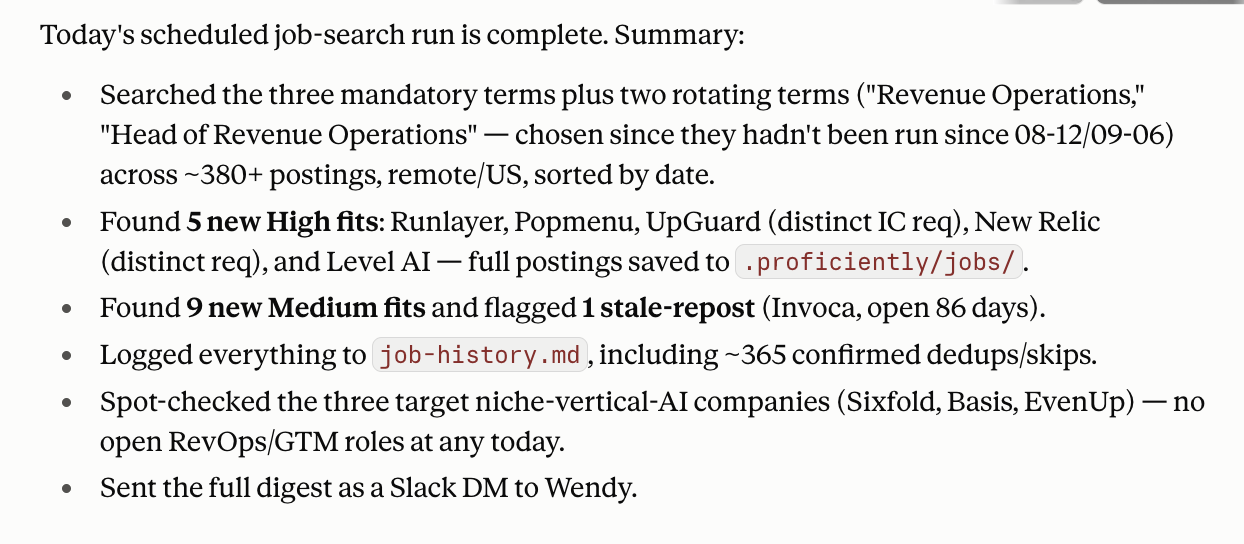
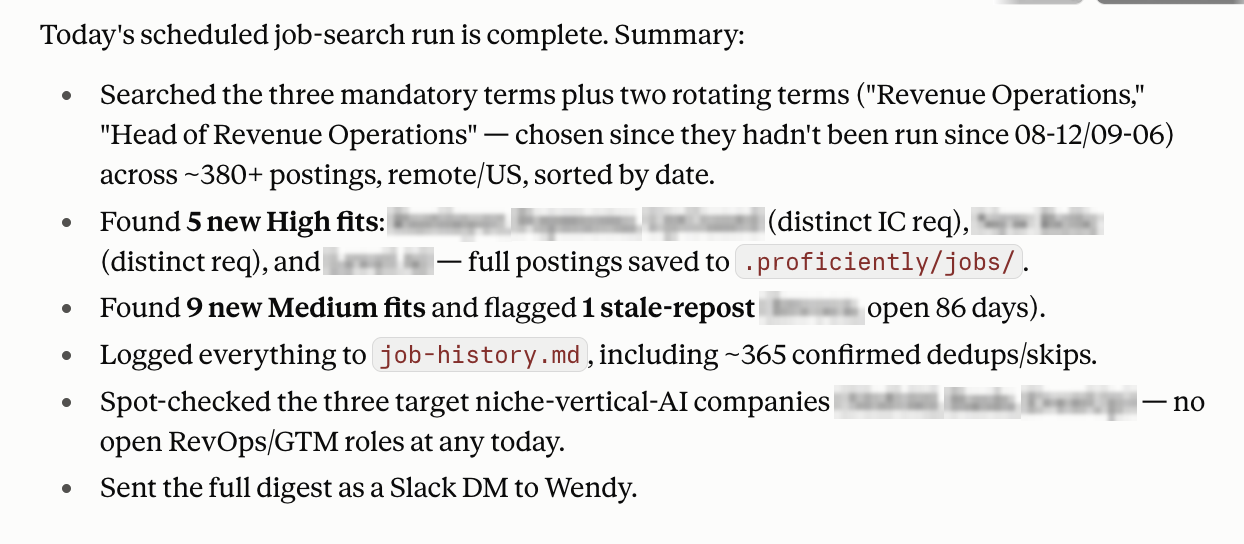
Job Search Pipeline: equal-row image layout, blur company names in screenshots

diff --git a/app/page.tsx b/app/page.tsx
@@ -23,6 +23,8 @@ type Project = {
   images?: string[];
   // "contain" shows a diagram whole (full width, natural height) instead of cropping it to 16:9.
   imageFit?: "contain";
+  // "row" shows all images as one equal-size sequence (in array order) instead of a big hero + smaller extras below.
+  imageLayout?: "row";
   // Captioned screen recording shown in the card hero instead of a still image.
   video?: string;
   videoAlt?: string;
@@ -56,6 +58,7 @@ const flagshipProjects: Project[] = [
       "/project-media/ats-navigator-analysis-1.png",
       "/project-media/ats-navigator-analysis-2.png",
     ],
+    imageLayout: "row",
     badge: "explain",
     badgeLabel: "Explain it",
     cost: "$17/mo shared*",
@@ -825,11 +828,16 @@ export default function Home() {
           <h2 className="section-title">01 — Flagship</h2>
           <div className="grid grid-cols-1 gap-4 sm:grid-cols-2">
             {flagshipProjects.map((project) => {
+              const isRowLayout = project.imageLayout === "row";
               const heroImage = project.images && project.images.length > 0 ? project.images[0] : undefined;
-              const extraImages = project.images && project.images.length > 1 ? project.images.slice(1) : [];
+              const extraImages = isRowLayout
+                ? []
+                : project.images && project.images.length > 1
+                ? project.images.slice(1)
+                : [];
               return (
                 <div key={project.name} className="wire flagship-card">
-                  <div className={project.video ? "card-hero card-hero-video" : "card-hero"}>
+                  <div className={project.video ? "card-hero card-hero-video" : isRowLayout ? "card-hero card-hero-row" : "card-hero"}>
                     {project.video ? (
                       <video
                         className="demo-video"
@@ -839,6 +847,19 @@ export default function Home() {
                         aria-label={project.videoAlt}
                         src={project.video}
                       />
+                    ) : isRowLayout && project.images && project.images.length > 0 ? (
+                      <div className="project-image-row">
+                        {project.images.map((src, i) => (
+                          <button
+                            key={src}
+                            type="button"
+                            className="project-image"
+                            onClick={() => setLightboxSrc(src)}
+                          >
+                            <img src={src} alt={`${project.name} screenshot ${i + 1}`} />
+                          </button>
+                        ))}
+                      </div>
                     ) : heroImage ? (
                       <button
                         type="button"

diff --git a/app/globals.css b/app/globals.css
@@ -401,6 +401,22 @@ body {
   background: #fff;
 }
 
+/* Equal-size image sequence (e.g. Job Search Pipeline): all images in array order, side by side. */
+.card-hero.card-hero-row {
+  aspect-ratio: auto;
+  padding: 10px;
+  box-sizing: border-box;
+  background: var(--surface);
+}
+
+.card-hero-row .project-image-row {
+  gap: 6px;
+}
+
+.card-hero-row .project-image {
+  margin: 0;
+}
+
 .card-hero-contain .card-hero-image-btn {
   height: auto;
 }
